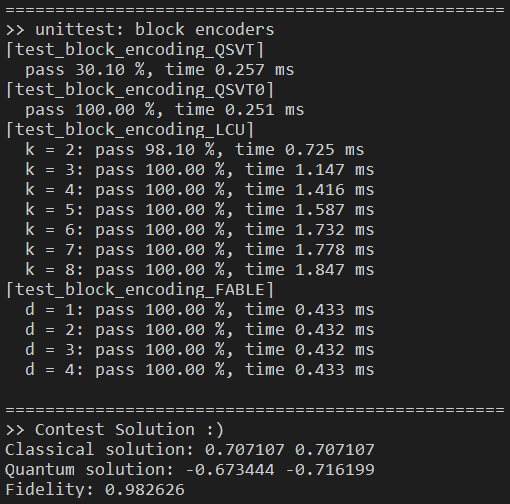
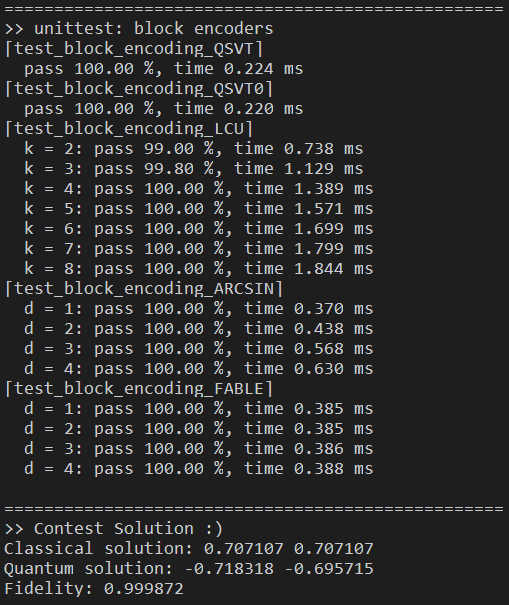
rethink on ls solver, add so-far results 🤔
still use QSVT for the BE part in ls-solver:(
input limitations for other methods are far beyond to encode exp(-iHt)

Changed region(s): [[0.0, 0.0, 1.0, 0.9821]]

diff --git a/src/qda_linear_solver.cpp b/src/qda_linear_solver.cpp
@@ -37,7 +37,7 @@ inline MatrixXcd exp_iHt_approx(MatrixXcd H, float t=1.0) {
 }
 
 
-// A ideal and simple QDA implementation
+// The ideal yet naive QDA implementation
 VectorXcd linear_solver_ideal(MatrixXcd A, VectorXcd b) {
   init_consts();
 
@@ -50,8 +50,8 @@ VectorXcd linear_solver_ideal(MatrixXcd A, VectorXcd b) {
   VectorXd init_state = kroneckerProduct(v0, b).real();  // |0,b>
 
   // gated quantum computing
-  const int S = 200;
-  const int T = 10;
+  const int S = 200;    // premise 1: adequate stage count
+  const int T = 10;     // premise 2: adequate physical time during each stage
   const size_t n_qubit = ceil(log2(H0.rows()));
   CPUQVM qvm;
   qvm.setConfigure({n_qubit, n_qubit});
@@ -60,12 +60,12 @@ VectorXcd linear_solver_ideal(MatrixXcd A, VectorXcd b) {
   QCircuit qcir;
   // init state
   vector<double> amplitude(init_state.data(), init_state.data() + init_state.size());
-  qcir << amplitude_encode(qv, amplitude);
+  qcir << amplitude_encode(qv, amplitude);  // premise 3: correct initial state preparation
   // adiabetic evolution
   for (int s = 0; s < S; s++) {
-    MatrixXcd H = H_s(float(s) / S);
+    MatrixXcd H = H_s(float(s) / S);  // premise 4: ideal time-independent hamiltonion schedule
     MatrixXcd iHt = dcomplex(0, -1) * H * T;
-    QMatrixXcd U_iHt = iHt.exp();
+    QMatrixXcd U_iHt = iHt.exp();     // premise 5: ideal time evolution operator
     QCircuit qc_TE = matrix_decompose_qr(qv, U_iHt, false);  // NOTE: must keep false here
     qcir << qc_TE << BARRIER(qv);
   }
@@ -75,13 +75,13 @@ VectorXcd linear_solver_ideal(MatrixXcd A, VectorXcd b) {
   QStat qs = qvm.getQState();
 
   // result
-  qs = QStat(qs.begin(), qs.begin() + 2);  // project only the firt qubit
+  qs = QStat(qs.begin(), qs.begin() + 2);  // project only the first qubit
   VectorXcd state = Map<VectorXcd>(qs.data(), qs.size());
-  return state;
+  return state / state.norm();  // re-norm
 }
 
 
-// The basic implementation strictly follows all contest-specified restrictions :)
+// The basic implementation strictly follows all contest-specified restrictions (?
 VectorXcd linear_solver_contest(MatrixXcd A, VectorXcd b) {
   init_consts();
 
@@ -90,32 +90,46 @@ VectorXcd linear_solver_contest(MatrixXcd A, VectorXcd b) {
   MatrixXcd Qb = MatrixXcd::Identity(N, N) - b * b.adjoint();
   MatrixXcd H0 = kroneckerProduct(PauliX, Qb);
   MatrixXcd H1 = kroneckerProduct(PauliP, A * Qb) + kroneckerProduct(PauliM, Qb * A);
-  auto H_s = [&](float s) -> MatrixXcd { return (1 - s) * H0 + s * H1; };
   VectorXcd init_state = kroneckerProduct(v0, b);
-
+  /* naive AQC
+  auto H_s = [&](float s) -> MatrixXcd { return (1 - s) * H0 + s * H1; };
+  */
+  /* AQC(P) */
+  float k = 5.82842712474619;   // condition_number of the original A
+  float p = 2.0;
+  auto f_ = [&](float s) -> float {
+    float t = 1 + s * (pow(k, p - 1) - 1);
+    return k / (k - 1) * (1 - pow(t, 1 / (1 - p)));
+  };
+  auto H_s = [&](float s) -> MatrixXcd {
+    float f_s = f_(s);
+    return (1 - f_s) * H0 + f_s * H1;
+  };
+  
   // gated quantum computing
-  const int S = 200;
-  const int T = 10;
-  const size_t n_qubit = ceil(log2(H0.rows()));
-  const size_t n_ancilla = 1;   // TODO: modify this
+  const int S = 200;    // restrict 1: fixed as contest required
+  const int T = 10;     // restrict 2: fixed as contest required (?)
+  const size_t n_qubit = ceil(log2(H0.rows()));   // since we're going to block-encode the hamiltonion H(s), not the matrix A in equation
+  const size_t n_ancilla = 1;   // NOTE: modify this according to your block_encode method :)
   const size_t n_qubit_ex = n_ancilla + n_qubit;
+  const float lmbd = pow(2, N);
   CPUQVM qvm;
   qvm.setConfigure({n_qubit_ex, n_qubit_ex});
   qvm.init();
   QVec qv = qvm.qAllocMany(n_qubit_ex);
   QCircuit qcir;
   // init state
-  auto anc0 = v0;
-  for (int i = 1; i < n_ancilla; i++) anc0 = kroneckerProduct(anc0, v0);
+  VectorXcd anc0 = v0;
+  for (int i = 1; i < n_ancilla; i++) anc0 = kroneckerProduct(anc0, v0).eval();   // NOTE: avoid aliasing effect
   VectorXd init_state_ex = kroneckerProduct(anc0, init_state).real();
   vector<double> amplitude(init_state_ex.data(), init_state_ex.data() + init_state_ex.size());
   qcir << amplitude_encode(qv, amplitude);   // |anc_BE,0,b>
   // adiabetic evolution
   for (int s = 0; s < S; s++) {
     MatrixXcd H = H_s((float)s / S);
-    MatrixXcd iHt = exp_iHt_approx(H, T);
-    auto res = block_encoding_QSVT(iHt);
-    QMatrixXcd U_iHt = res.unitary;
+    MatrixXcd iHt = exp_iHt_approx(H, T);   // restrict 3: approx as contest required
+    iHt = normalize_QSVT(iHt);
+    QMatrixXcd U_iHt = block_encoding_QSVT(iHt).unitary;  // restrict 4: block_encode as contest required, and as consequence of approx
     QCircuit qc_TE = matrix_decompose_qr(qv, U_iHt, false);  // NOTE: must keep false here
     qcir << qc_TE << BARRIER(qv);
   }
@@ -125,9 +139,9 @@ VectorXcd linear_solver_contest(MatrixXcd A, VectorXcd b) {
   QStat qs = qvm.getQState();
 
   // result
-  qs = QStat(qs.begin(), qs.begin() + 2);  // project only the firt qubit
+  qs = QStat(qs.begin(), qs.begin() + 2);  // project only the first qubit
   VectorXcd state = Map<VectorXcd>(qs.data(), qs.size());
-  return state;
+  return state / state.norm();  // re-norm
 }
 
 

diff --git a/playground/main.py b/playground/main.py
@@ -6,19 +6,19 @@
 
 '''
 第二问的比赛要求有如下限制或提示：
- - 代码中 Block-Encoding 的实现与第一问中一致，使用 QPanda 的 matrix_decompose() 接口
- - 参考文献 arXiv:1909.05500 中的调度函数 f(s) 和含时哈密顿量 H(s) 的构造方法，选取 f(s) = s, s ∈ [0, 1], Δs = 1/200
- - 使用一阶近似 exp(-iH) ≈ I - iH
- - 基于 QPanda 实现离散绝热线性求解器，输出 |x> 和 <x_r|x>
+  - 代码中 Block-Encoding 的实现与第一问中一致，使用 QPanda 的 matrix_decompose() 接口
+  - 参考文献 arXiv:1909.05500 中的调度函数 f(s) 和含时哈密顿量 H(s) 的构造方法，选取 f(s) = s, s ∈ [0, 1], Δs = 1/200
+  - 使用一阶近似 exp(-iH) ≈ I - iH
+  - 基于 QPanda 实现离散绝热线性求解器，输出 |x> 和 <x_r|x>
 这使得好像出题方看起来并不是要求选手去实现论文中的那些经典方法，我们根据这些限制来重新评估所暗示的解决方案!!
 
 - 哈密顿量模拟[1,2]: 若系统的哈密顿量为不含时的 H，则初态 |ψ(0)> 经过时间 t 后会自然演化为 |ψ(t)>
- - |ψ(t)> = exp(-iHt) |ψ(0)>
- - Pauli 算符的指数化线路[1] (根据矩阵形式硬凑出来的)
-   - exp(-iIt) = Rz(-t) X Rz(-t) X
-   - exp(-iXt) = H Rz(-t) X Rz(t) X H
-   - exp(-iYt) = Rx(pi/2) X Rz(-t) X Rz(t) Rx(-pi/2)
-   - exp(-iZt) = X Rz(-t) X Rz(t)
+  - |ψ(t)> = exp(-iHt) |ψ(0)>
+  - Pauli 算符的指数化线路[1] (根据矩阵形式硬凑出来的)
+    - exp(-iIt) = Rz(-t) X Rz(-t) X
+    - exp(-iXt) = H Rz(-t) X Rz(t) X H
+    - exp(-iYt) = Rx(pi/2) X Rz(-t) X Rz(t) Rx(-pi/2)
+    - exp(-iZt) = X Rz(-t) X Rz(t)
 - 绝热演化[3,4]: 系统的哈密顿量从 H0 缓慢演化到 H1，若系统初态恰为 H0 的第k本征态，则最终会演化到 H1 的第k本征态
   - 系统的含时哈密顿量可近似为线性插值: H(s) = (1 - s) * H0 + s * H1, s: 0 -> 1
   - 离散绝热演化: Trotter 分解可以把哈密顿量的和 exp(-iT(H0+H1)) 分解成小片的积 Πt exp(-i(t/T)H0)exp(-i(t/T)H1)
@@ -28,17 +28,20 @@ ref:
 - [3] https://zhuanlan.zhihu.com/p/24086259
 - [4] https://www.cnblogs.com/dechinphy/p/annealer.html
 根据以上不难得出解决方案：
- 0. 规范化所求线性方程组 A * x = b 右端
- 1. 将系统初态制备为 |b>
- 2. 进行从 H0 到 H1 的离散绝热演化
-   - 精确设计哈密顿量 H0 和 H1，使得 |b> 是 H0 的一个本征态
-   - 确定调度函数 f(s) = s, 构造含时哈密顿量 H(s) = (1 - s) * H0 + s * H1
-   - 进行 S=200 步的演化，第 s 步使用哈密顿量 H(s) 演化恰当时长 T=1 (?)
-     - 标准方案即用酉矩阵 exp(-iH(s)) 进行演化 (QPanda 提供了用于直接数学模拟的 expMat，但未提供 TimeEvolution 量子线路)
-     - 但按题目要求，需要使用一阶近似 exp(-iH) ≈ I - iH 取代该酉矩阵进行演化
-     - 由于近似矩阵 I - iH 非酉，进一步使用其 BlockEncoding 形式来进行演化
- 3. 读出末态 |x>
- 4. 计算保真度
+  0. 规范化所求线性方程组 A * x = b 右端
+  1. 将系统初态制备为 |b>
+  2. 进行从 H0 到 H1 的离散绝热演化
+    - 精确设计哈密顿量 H0 和 H1，使得 |b> 是 H0 的一个本征态/零空间
+    - 确定调度函数 f(s) = s, 构造含时哈密顿量 H(s) = (1 - s) * H0 + s * H1
+    - 进行 S=200 步的演化，第 s 步使用哈密顿量 H(s) 演化恰当时长 T=1 (?)
+      - 标准方案即用酉矩阵 exp(-iH(s)t) 进行演化 (QPanda 提供了用于直接数学模拟的 expMat，但未提供 TimeEvolution 量子线路)
+      - 但按题目要求，需要使用一阶近似 TE = exp(-iHt) ≈ I - iHt = \hat{TE} 取代该酉矩阵进行演化
+      - 由于近似矩阵 \hat{TE} 非酉，需要进一步使用其 BlockEncoding 形式来进行演化；选型思考最后决定用 QSVT 作答
+        - QSVT 方案不保证任意输入都可用多项式个门高效地实现，比赛要求"可用量子线路实现" (但好像没要求高效?)
+        - LCU 方案暂时不支持复数矩阵 (QPanda 接口暂时不能分解 Pauli-Y)
+        - ARCSIN/FABLE 方案要求矩阵元素 |a_{i,j}| \leq 1，该方案大概也是比赛所暗示的标准解答思路，但 \hat{TE} 值域是无界的
+  3. 读出末态 |x>
+  4. 计算保真度
 '''
 
 from functools import partial

diff --git a/playground/qda_linear_solver.py b/playground/qda_linear_solver.py
@@ -278,6 +278,10 @@ print()
 
 '''
 [Eigenvalue Filtering]
+1. 先用 AQC(p) 跑出来一个近似解 |\hat{x0}> = \gamma_0 |0,x> + \gamma_1 |1,b> + |⊥>
+2. 纯线性代数的思路，乘上一个矩阵进行过滤 R_l(H1/d; 1/(dk)) |\hat{x0}> 将会去除无关成分 |⊥>
+  - R_l(x,Δ) 是一个标量函数，如何定义它的矩阵版本 R_l(H,Δ)? element-wise??
+3. 对第一辅助比特进行测量，将有 \gamma_0^2 概率去除误差成分 |1,b> 而得到目标 |0,x>
 '''
 def arXiv_1910_14596_EF():
   print('[EF(AQC)] O(κlog(1/ε))')
@@ -305,6 +309,7 @@ def arXiv_1910_14596_EF():
 
 '''
 [Quantum Discrete Adiabatic]
+1. 纯线性代数的思路，先 QWalk 到一个近似解，再 Eigen-Filter
 '''
 def arXiv_2111_08152_QDA():
   # Eq.114, the AQC(P) borrowed from arXiv:1909.05500

diff --git a/README.md b/README.md
@@ -44,14 +44,23 @@ This is the demo run:
 
 ⚪ adiabetic-inspired linear system solver
 
-| Method | encode carrier | sched func $ f(s) $ | complexity |
-| :-: | :-: | :-: | :-: |
-| [RM (algo-1)](https://arxiv.org/abs/1805.10549) | eigen     | $ f(s) = s $       | $ \mathcal{O}(\kappa^2 \mathrm{log}(\kappa) / \epsilon) $                                    |
-| [RM (algo-2)](https://arxiv.org/abs/1805.10549) | eigen     | $ f(s) = s $       | $ \mathcal{O}(\kappa \mathrm{log}(\kappa) / \epsilon) $                                      |
-| [vanilla AQC](https://arxiv.org/abs/1909.05500) | nullspace | $ f(s) = s $       | $ \mathcal{O}(\kappa^3 / \epsilon) $                                                         |
-| [AQC(P)](https://arxiv.org/abs/1909.05500)      | nullspace | $ f(s) = poly(s) $ | $ \mathcal{O}(\kappa / \epsilon) \sim \mathcal{O}(\kappa \mathrm{log}(\kappa) / \epsilon) $  |
-| [AQC(EXP)](https://arxiv.org/abs/1909.05500)    | nullspace | $ f(s) = exp(s) $  | $ \mathcal{O}(\kappa \mathrm{log}^2(\kappa) \mathrm{log}^4(\mathrm{log}(\kappa)/\epsilon)) $ |
-| [QDA](https://arxiv.org/abs/2111.08152) (not implemented) | eigen | $ f(s) = poly(s) $ | $ \mathcal{O}(\kappa \mathrm{log}(1 / \epsilon)) $                                     |
+| Method | sched func $ f(s) $ | time complexity | query complexity (EF paper listed) | query complexity (QDA paper listed) |
+| :-: | :-: | :-: | :-: | :-: |
+| [RM (algo-1)](https://arxiv.org/abs/1805.10549) | $ \mathrm{linear} $ | $ \mathcal{O}(\kappa^2 \mathrm{log}(\kappa) / \epsilon) $ | $ \mathcal{O}(\kappa / \epsilon) $ |  |
+| [RM (algo-2)](https://arxiv.org/abs/1805.10549) | $ \mathrm{linear} $ | $ \mathcal{O}(\kappa \mathrm{log}(\kappa) / \epsilon) $ | $ \mathcal{O}(\kappa / \epsilon) $ | $ \mathcal{O}(\kappa \mathrm{log}(\kappa) / \epsilon) $ |
+| [vanilla AQC](https://arxiv.org/abs/1909.05500) | $ \mathrm{linear} $ | $ \mathcal{O}(\kappa^3 / \epsilon) $ | $ \mathcal{O}(\kappa^2 / \epsilon) $ |  |
+| [AQC(P)](https://arxiv.org/abs/1909.05500)      | $ \mathrm{poly} $ | $ \mathcal{O}(\kappa / \epsilon) \sim \mathcal{O}(\kappa \mathrm{log}(\kappa) / \epsilon) $ | $ \mathcal{O}(\kappa \mathrm{log}(\kappa) \mathrm{loglog}(\kappa)) $ for $ \mathcal{O}(1) $ precision |  |
+| [AQC(EXP)](https://arxiv.org/abs/1909.05500)    | $ \mathrm{exp} $  | $ \mathcal{O}(\kappa \mathrm{log}^2(\kappa) \mathrm{log}^4(\mathrm{log}(\kappa)/\epsilon)) $ | $ \mathcal{O}(\kappa \mathrm{polylog}(1 / \epsilon)) $ | $ \mathcal{O}(\kappa \mathrm{polylog}(\kappa / \epsilon)) $ |
+| [EF](https://arxiv.org/abs/1910.14596) (not implemented)  | $ \mathrm{poly} $ |  | $ \mathcal{O}(\kappa \mathrm{log}(1 / \epsilon)) $ | $ \mathcal{O}(\kappa \mathrm{log}(\kappa / \epsilon)) $ |
+| [QDA](https://arxiv.org/abs/2111.08152) (not implemented) | $ \mathrm{poly} $ |  |  | $ \mathcal{O}(\kappa \mathrm{log}(1 / \epsilon)) $ |
+
+ℹ Note that $ \mathcal{\Omega}(\kappa \mathrm{log}(1 / \epsilon)) $ is the theoretical lower bound for sparse QLSP
+
+> Obviously there is an argument between QDA and EF, that EF overlooked a factor by $ \mathrm{log}(k) $? 🤔
+> - EF := AQC(P) + EF = $ \mathcal{O}(\kappa \mathrm{log}(\kappa) \mathrm{loglog}(\kappa)) + \mathcal{O}(\kappa \mathrm{log}(1 / \epsilon)) $
+> - QDA := QWalk + EF = $ \mathcal{O}(\kappa) + \mathcal{O}(\kappa \mathrm{log}(1 / \epsilon)) $
+>
+> OK then, QDA might be right: EF forgot to count for its AQC(p) part
 
 
 ### references

diff --git a/RESULTS.md b/RESULTS.md
@@ -1,0 +1,32 @@
+# linear_solver results
+
+ℹ QSVT 与 ideal 精度持平，即使使用了 approx(-iHt) 近似；ARCSIN 比 QSVT 差在逐渐积累的浮点误差
+
+⚪ `f(s) = linear`
+
+| fidelity | solution | run config |
+| :-: | :-: | :-: |
+| 0.116225 | [-0.784498,  0.620131] | ideal; S=200, T=1 |
+| 0.999883 | [-0.696206, -0.717842] | ideal; S=200, T=10 |
+| 0.999964 | [-0.701095, -0.713068] | ideal; S=300, T=10 |
+| 0.116241 | [-0.784508, 0.620118]  | QSVT; S=200, T=1 |
+| 0.999527 | [-0.685027 -0.728517]  | QSVT; S=200, T=10 |
+| 1.000000 | [-0.707475, -0.706739] | QSVT; S=300, T=10 |
+| 0.999998 | [-0.708495, -0.705716] | QSVT; S=2000, T=1 |
+| 0.640244 | [0.9959, -0.090459]    | ARCSIN; S=200, T=1 |
+| 0.873111 | [0.962113, 0.272652]   | ARCSIN; S=200, T=1, norm(lmbd*iHt) |
+| 0.321988 | [0.897129, -0.441769]  | ARCSIN; S=2000, T=1 |
+
+⚪ `f(s) = poly(2)`
+
+| fidelity | solution | run config |
+| :-: | :-: | :-: |
+| 0.856842 | [-0.970448, -0.241309] | QSVT; S=200, T=1 |
+| 0.999872 | [-0.718318, -0.695715] | QSVT; S=200, T=10 |
+| 0.999988 | [-0.71061, -0.703587]  | QSVT; S=300, T=10 |
+| 1.000000 | [-0.70689, -0.707324]  | QSVT; S=2000, T=1 |
+| 0.828373 | [0.981853, 0.189643]   | ARCSIN; S=200, T=1 |
+| 0.489276 | [0.962659 -0.270718]   | ARCSIN; S=200, T=1, norm(iHt) |
+| 0.983201 | [0.824295, 0.56616]    | ARCSIN; S=200, T=1, norm(lmbd*iHt) |
+| 0.998871 | [0.672715, 0.739901]   | ARCSIN; S=2000, T=1 |
+| 0.917811 | [0.929724, 0.368257]   | ARCSIN; S=2000, T=1, norm(lmbd*iHt) |
